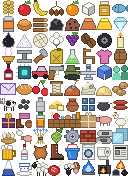
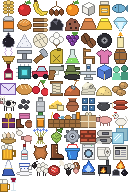
Let bonus goods multiply satisfaction instead of adding to it, give taverns and clubs an alcohol need any of beer, wine or vodka meets, with food and chemicals as their bonuses, and name what a category holds on hover.

diff --git a/src/railroads/sim/goods.py b/src/railroads/sim/goods.py
@@ -175,6 +175,7 @@ class Need(Enum):
     CASTINGS = "castings"
     LUXURIES = "luxury goods"
     COMMON = "common goods"
+    ALCOHOL = "alcohol"
     PASSENGERS = "passengers"
     MAIL = "mail"
 
@@ -235,6 +236,7 @@ FITS: Mapping[Need, tuple[Good, ...]] = MappingProxyType(
         Need.FOOD: FOODS,
         Need.COMMON: COMMON_GOODS,
         Need.FRUIT: FRUITS,
+        Need.ALCOHOL: (Good.BEER, Good.WINE, Good.VODKA),
         Need.FIBRE: (Good.WOOL, Good.COTTON, Good.FLAX),
         Need.LIVESTOCK: (Good.CATTLE, Good.SHEEP),
         Need.ANIMALS: (Good.CATTLE, Good.PIGS, Good.CHICKENS, Good.SHEEP),
@@ -792,8 +794,8 @@ _NEEDS: Mapping[BuildingKind, Mapping[Need, float]] = MappingProxyType(
         BuildingKind.PIG_FARM: {Need.WHEAT: 60},
         BuildingKind.CHICKEN_FARM: {Need.WHEAT: 30},
         BuildingKind.SHEEP_FARM: {Need.WHEAT: 90},
-        BuildingKind.TAVERN: {Need.BEER: 60, Need.VODKA: 30},
-        BuildingKind.CLUB: {Need.BEER: 200, Need.VODKA: 150},
+        BuildingKind.TAVERN: {Need.ALCOHOL: 90, Need.FOOD: 20},
+        BuildingKind.CLUB: {Need.ALCOHOL: 350, Need.CHEMICALS: 5},
         BuildingKind.DEPARTMENT_STORE: {
             Need.CLOTHES: 20,
             Need.SHOES: 20,
@@ -924,6 +926,7 @@ _PIPELINE: tuple[Need | BuildingKind, ...] = (
     Need.POTATOES,
     BuildingKind.DISTILLERY,
     Need.VODKA,
+    Need.ALCOHOL,
     Need.SUGAR,
     BuildingKind.SUGAR_REFINERY,
     Need.REFINED_SUGAR,
@@ -1037,12 +1040,26 @@ HOMES = frozenset({BuildingKind.HOUSE, BuildingKind.TENEMENT, BuildingKind.FLATS
 HOME_DEMANDS = frozenset({Need.FOOD, Need.COMMON, Need.HEATING})
 
 
+# Venues need alcohol of any kind; a tavern takes food as a bonus, and a club a little of
+# whatever chemicals it can get.
+VENUE_BONUSES: Mapping[BuildingKind, frozenset[Need]] = MappingProxyType(
+    {
+        BuildingKind.TAVERN: frozenset({Need.FOOD}),
+        BuildingKind.CLUB: frozenset({Need.CHEMICALS}),
+    }
+)
+
+
 @cache
 def bonus_of(kind: BuildingKind, year: int) -> Mapping[Need, float]:
     """The bonus goods among what a kind of building needs in a month in a given year: for homes
     all but food, common goods and heating; those of buildings that make goods boost what they make instead
     (boosts_of)."""
     needs = needs_of(kind, year)
+    if kind in VENUE_BONUSES:
+        return MappingProxyType(
+            {need: amount for need, amount in needs.items() if need in VENUE_BONUSES[kind]}
+        )
     if kind in HOMES:
         return MappingProxyType(
             {need: amount for need, amount in needs.items() if need not in HOME_DEMANDS}

diff --git a/tests/test_economy.py b/tests/test_economy.py
@@ -689,7 +689,7 @@ def test_a_house_that_gets_no_food_is_unsatisfied_whatever_else_it_gets(given: d
     assert level_at(economy, trade, (8, 9), BuildingKind.HOUSE) == Satisfaction.UNSATISFIED
 
 
-def test_a_house_with_a_little_food_counts_its_warmth_and_beer_too() -> None:
+def test_a_house_with_a_little_food_gets_its_beer_bonus_only_on_that_little() -> None:
     tile_map = make_map()
     economy = Economy(tile_map)
     placed = counts(tile_map, ((8, 9), BuildingKind.HOUSE, 1))
@@ -697,7 +697,7 @@ def test_a_house_with_a_little_food_counts_its_warmth_and_beer_too() -> None:
     trade = economy.trade(placed, holding(FISH=1.0, COAL=3.0, BEER=1.0))
 
     share = trade.share((BuildingKind.HOUSE,))[position(trade, economy, (8, 9))]
-    assert share == pytest.approx(4 / 18 + 0.3)
+    assert share == pytest.approx(4 / 18 * 1.3)
 
 
 def test_each_bonus_good_counts_what_the_economy_is_told_it_is_worth() -> None:
@@ -888,3 +888,15 @@ def test_only_a_farm_the_player_owns_takes_limestone_and_machinery_once_their_te
     gathered = trade.gathered[STATION].get(Good.WHEAT, 0.0)
     brought = trade.owned_brought[STATION].get(Good.WHEAT, 0.0)
     assert gathered + brought == pytest.approx(wheat)
+
+
+@pytest.mark.parametrize("drink", ["BEER", "WINE", "VODKA"])
+def test_a_tavern_takes_any_alcohol_and_food_only_as_a_bonus(drink: str) -> None:
+    tile_map = make_map()
+    economy = Economy(tile_map)
+    placed = counts(tile_map, ((8, 9), BuildingKind.TAVERN, 1))
+
+    trade = economy.trade(placed, holding(**{drink: 90.0}))
+
+    share = trade.share((BuildingKind.TAVERN,))[position(trade, economy, (8, 9))]
+    assert share == pytest.approx(1.0)

diff --git a/src/railroads/ui/theme.py b/src/railroads/ui/theme.py
@@ -12,7 +12,7 @@ from imgui_bundle import hello_imgui, imgui
 from imgui_bundle import icons_fontawesome_4 as fa
 from PIL import Image
 
-from railroads.sim.goods import General, Good, Need
+from railroads.sim.goods import FITS, General, Good, Need
 from railroads.sim.trains import car_size
 from railroads.ui.pixel.good_icons import ICON_PIXELS, ICONS_INDEX, ICONS_PNG
 from railroads.ui.pixel.layer import blown_up_texture
@@ -310,13 +310,21 @@ def draw_good_icon(
 
 
 def good_icon(good: Good | Need, *, framed: bool = False, size: float = ICON_SIZE) -> None:
-    """A good's icon, inline and named on hover, centred on the line's text; `framed` is for
-    lines lined up with buttons by align_text_to_frame_padding."""
+    """A good's icon, inline and named on hover with what a category holds, centred on the
+    line's text; `framed` is for lines lined up with buttons by align_text_to_frame_padding."""
     height = imgui.get_frame_height() if framed else imgui.get_text_line_height()
     imgui.dummy((size, height))
     low = imgui.get_item_rect_min()
     draw_good_icon(imgui.get_window_draw_list(), good, (low.x, low.y + (height - size) / 2), size)
-    tip(good.value)
+    tip(icon_name(good))
+
+
+def icon_name(good: Good | Need) -> str:
+    """What hovering a good's icon says: its name, and for a category of goods what is in it."""
+    goods = FITS.get(good, ()) if isinstance(good, Need) else ()
+    if len(goods) > 1:
+        return f"{good.value}: {', '.join(each.value for each in goods)}"
+    return good.value
 
 
 def good_amount(good: Good | Need, amount: str, *, framed: bool = False) -> None:

diff --git a/src/railroads/sim/economy.py b/src/railroads/sim/economy.py
@@ -26,9 +26,10 @@ processor come before what it makes: canneries take their fruit before houses ea
 
 A building's satisfaction is the share of what it demands that it got and of what it makes that
 reached a buyer; a processor's is only the share of all it could make that reached a buyer, so one
-whose stockpile holds one input but not the other is unsatisfied however full it is, plus
-BONUS_PER_GOOD for each of its bonus goods (railroads.sim.goods) it got all of, and that share of
-it for part: a house fed and warmed that also got all its beer and half its newspapers is at 145%.
+whose stockpile holds one input but not the other is unsatisfied however full it is; that is
+raised by BONUS_PER_GOOD of itself for each of its bonus goods (railroads.sim.goods) it got all
+of, and that share of it for part: a house fed and warmed that also got all its beer and half its
+newspapers is at 145%, one only half fed with all its beer at 65%.
 Food is a must for homes: one that got none is unsatisfied whatever else it got, so homes can't
 live on firewood or beer alone. A building is unsatisfied at nothing, thriving from 100% and
 content between. Its satisfaction adds to the
@@ -332,7 +333,7 @@ class Trade:
             done = self.got[kind] + self.gave[kind]
             own = np.where(wanted > 0, done / np.where(wanted > 0, wanted, 1.0), 0.0)
             if kind in self.bonus:
-                own = own + self.bonus_per_good * self.bonus[kind]
+                own = own * (1.0 + self.bonus_per_good * self.bonus[kind])
             total += wanted * own
             weight += wanted
         wanting = weight > 0

diff --git a/src/railroads/ui/pixel/good_icons.py b/src/railroads/ui/pixel/good_icons.py
@@ -757,6 +757,22 @@ def beer() -> Sprite:
     return p.sprite()
 
 
+def alcohol() -> Sprite:
+    p = _canvas()
+    amber: RGB = (232, 166, 44)
+    p.rect(-8, -2, -1, 7, amber)
+    p.line([(-1, 0), (1, 0), (1, 5), (-1, 5)], shade(amber, 0.6))
+    foam: RGB = (250, 248, 238)
+    p.ellipse(-9, -5, -4, -1, foam)
+    p.ellipse(-6, -5, -1, -1, foam)
+    red: RGB = (150, 26, 60)
+    glass: RGB = (214, 228, 236)
+    p.polygon([(2, -7), (8, -7), (7, -2), (3, -2)], red, glass)
+    p.line([(5, -2), (5, 5)], glass)
+    p.line([(3, 6), (7, 6)], glass)
+    return p.sprite()
+
+
 def vodka() -> Sprite:
     p = _canvas()
     clear: RGB = (222, 236, 244)
@@ -1121,6 +1137,7 @@ ICONS: dict[str, Callable[[], Sprite]] = {
     "glass": glass,
     "beer": beer,
     "vodka": vodka,
+    "alcohol": alcohol,
     "leather": leather,
     "shoes": shoes,
     "plastics": plastics,

diff --git a/tests/test_good_icons.py b/tests/test_good_icons.py
@@ -6,6 +6,7 @@ from PIL import Image
 
 from railroads.sim.goods import Good, Need
 from railroads.ui.pixel.good_icons import ICON_PIXELS, ICONS, ICONS_INDEX, ICONS_PNG
+from railroads.ui.theme import icon_name
 
 
 @pytest.mark.parametrize("good", [*Good, *Need], ids=lambda good: good.value)
@@ -23,3 +24,9 @@ def test_no_two_icons_are_the_same_picture() -> None:
     drawn = [draw().image.tobytes() for draw in ICONS.values()]
 
     assert len(set(drawn)) == len(drawn)
+
+
+def test_hovering_a_category_names_the_goods_in_it() -> None:
+    named = icon_name(Need.ALCOHOL), icon_name(Good.BEER)
+
+    assert named == ("alcohol: beer, wine, vodka", "beer")

diff --git a/README.md b/README.md
@@ -493,7 +493,8 @@ bakery a station can reach is worth having.
 | Printing works | 3,000 newspapers | 150 paper |
 | Plastics works (1950) | 100 plastics | 50 oil, 50 chemicals |
 | Appliance factory (1950) | 30 appliances | 30 steel, 15 copper, 15 plastics, 8 electronics (from 1960) |
-| Tavern | | 20 beer, 10 vodka |
+| Tavern | | 90 alcohol (beer, wine or vodka); 20 food as a bonus |
+| Club | | 350 alcohol (beer, wine or vodka); 5 chemicals as a bonus |
 | Department store (1880) | | 20 clothes, 20 shoes, 10 furniture, 5 porcelain, 10 appliances (from 1950) |
 | Hotel (1900) | | 80 food, 10 wine, 10 beer, 10 newspapers |
 | Coal power plant (1882) | | 200 coal |
@@ -524,11 +525,15 @@ nothing passes between neighbours by itself, and the land feeds no one.
 
 What a building needs comes in two lists, its demands and its bonus goods. Bonus goods are every
 special resource (iron ore, copper, gold, diamonds, oil, salt, grapes, coffee, rubber, incense)
-and beer, newspapers and furniture; everything else it needs is a demand. A building's
-satisfaction is the share of its demands it got, plus 30% for each bonus good it got all of, and
-that share of 30% for part of one. Demands are counted by amount, so a car matters little next
-to a town's food. A house that gets its food and heating is at 100%, with all its beer at 130%,
-and with half its newspapers on top at 145%; one that gets only its beer is at 30%. A building
+and beer, newspapers and furniture; everything else it needs is a demand. Taverns and clubs need
+alcohol, any of beer, wine and vodka; a tavern takes food as a bonus and a club a little of
+whatever chemicals it can get. Hovering the icon of such a category names what is in it.
+A building's satisfaction is the share of its demands it got, raised by 30% of itself for each bonus good it
+got all of, and that share of 30% for part of one, so bonus goods count only as much as the
+demands are met. Demands are counted by amount, so a car matters little next to a town's food. A
+house that gets its food and heating is at 100%, with all its beer at 130%, and with half its
+newspapers on top at 145%; one only half fed with all its beer is at 65%, and one that gets only
+its beer at 0%. A building
 that makes things counts what it gave away alongside what it got, and processors are judged on
 what they actually make, not on what they could.
 
